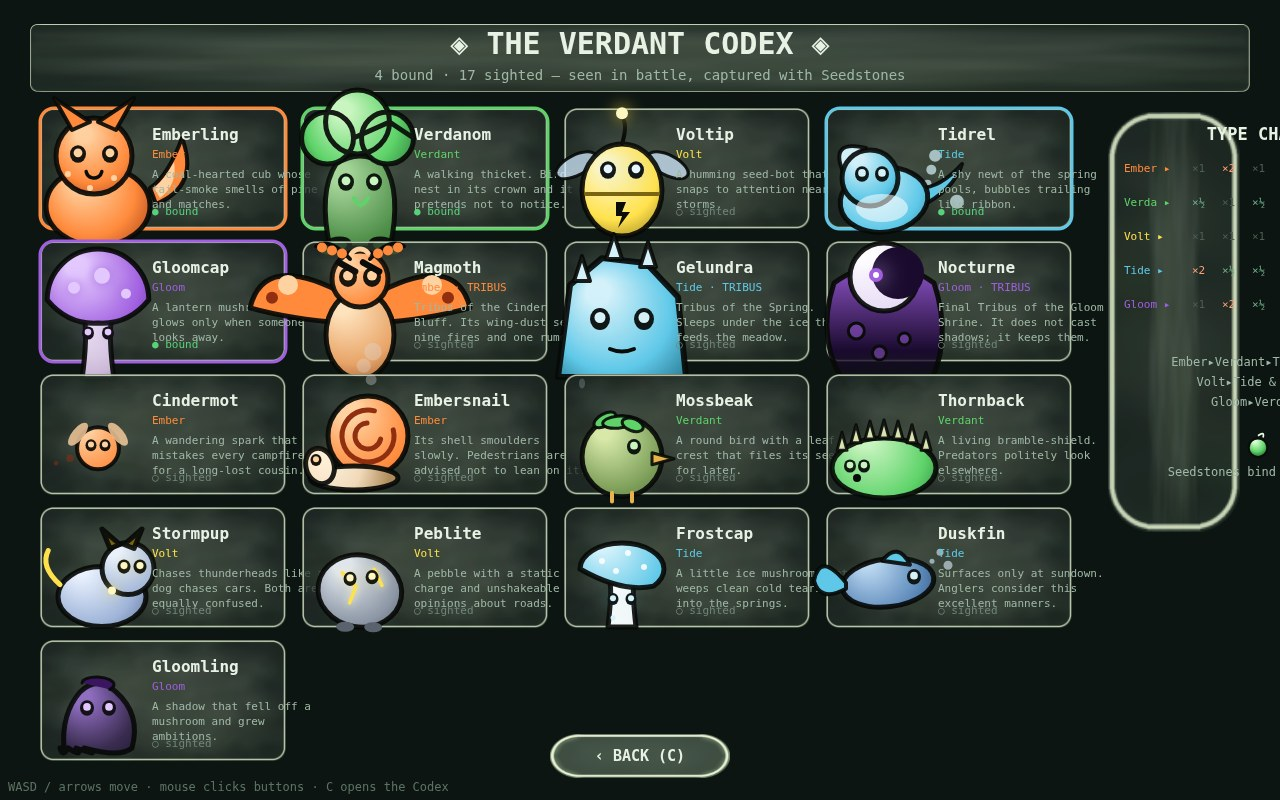
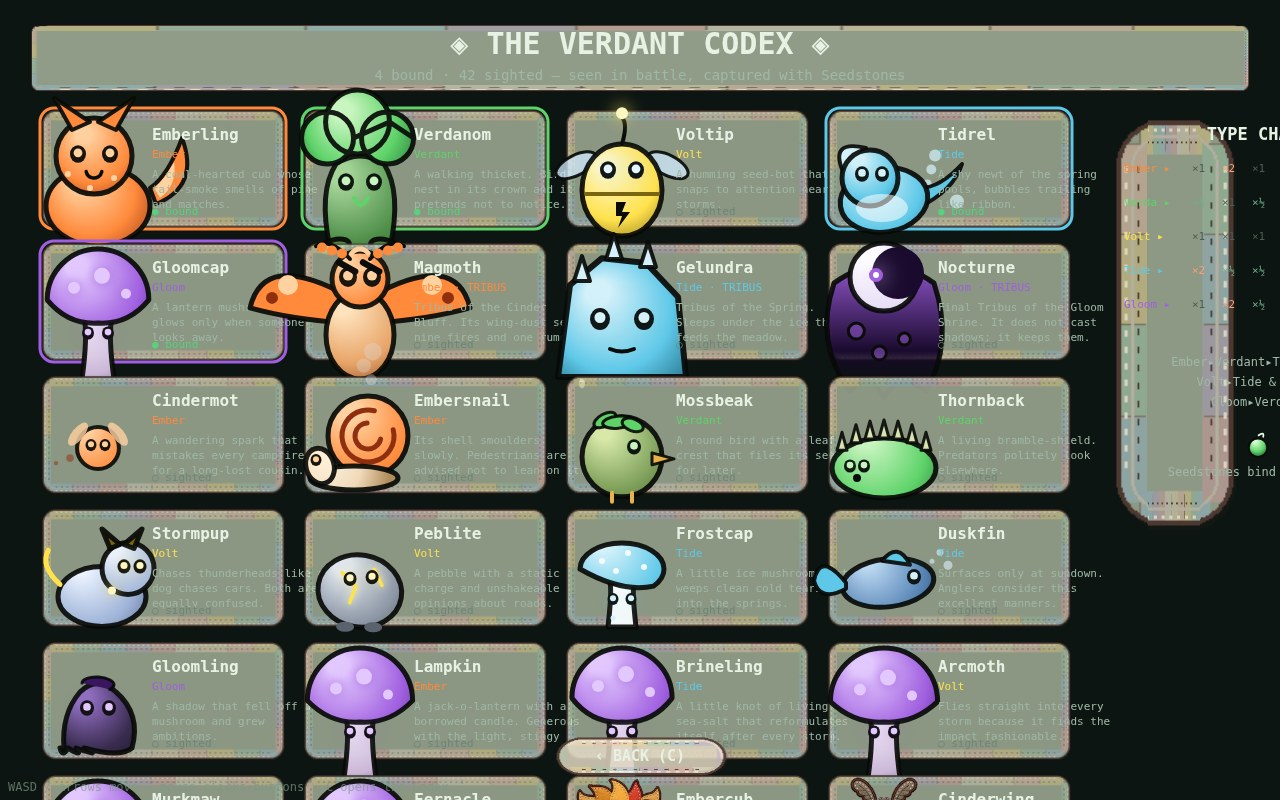
chore: cache-bust v=quilt3 + reshot screenshots with new UI pack

diff --git a/game/src/hud.js b/game/src/hud.js
@@ -35,7 +35,7 @@ function uiImg(name) {
     const img = new Image();
     img.onerror = () => uiCache.set(name, false);
     img.onload = () => uiCache.set(name, img);
-    img.src = `assets/ui/${name}.png?v=quilt2`;
+    img.src = `assets/ui/${name}.png?v=quilt3`;
     uiCache.set(name, null); // loading
   }
   return uiCache.get(name);

diff --git a/game/src/screens.js b/game/src/screens.js
@@ -72,7 +72,7 @@ function titleBgImage() {
     _titleBg = null;
     const img = new Image();
     img.onload = () => { _titleBg = img; };
-    img.src = 'assets/title_hero.png?v=quilt2';
+    img.src = 'assets/title_hero.png?v=quilt3';
   }
   return _titleBg;
 }
